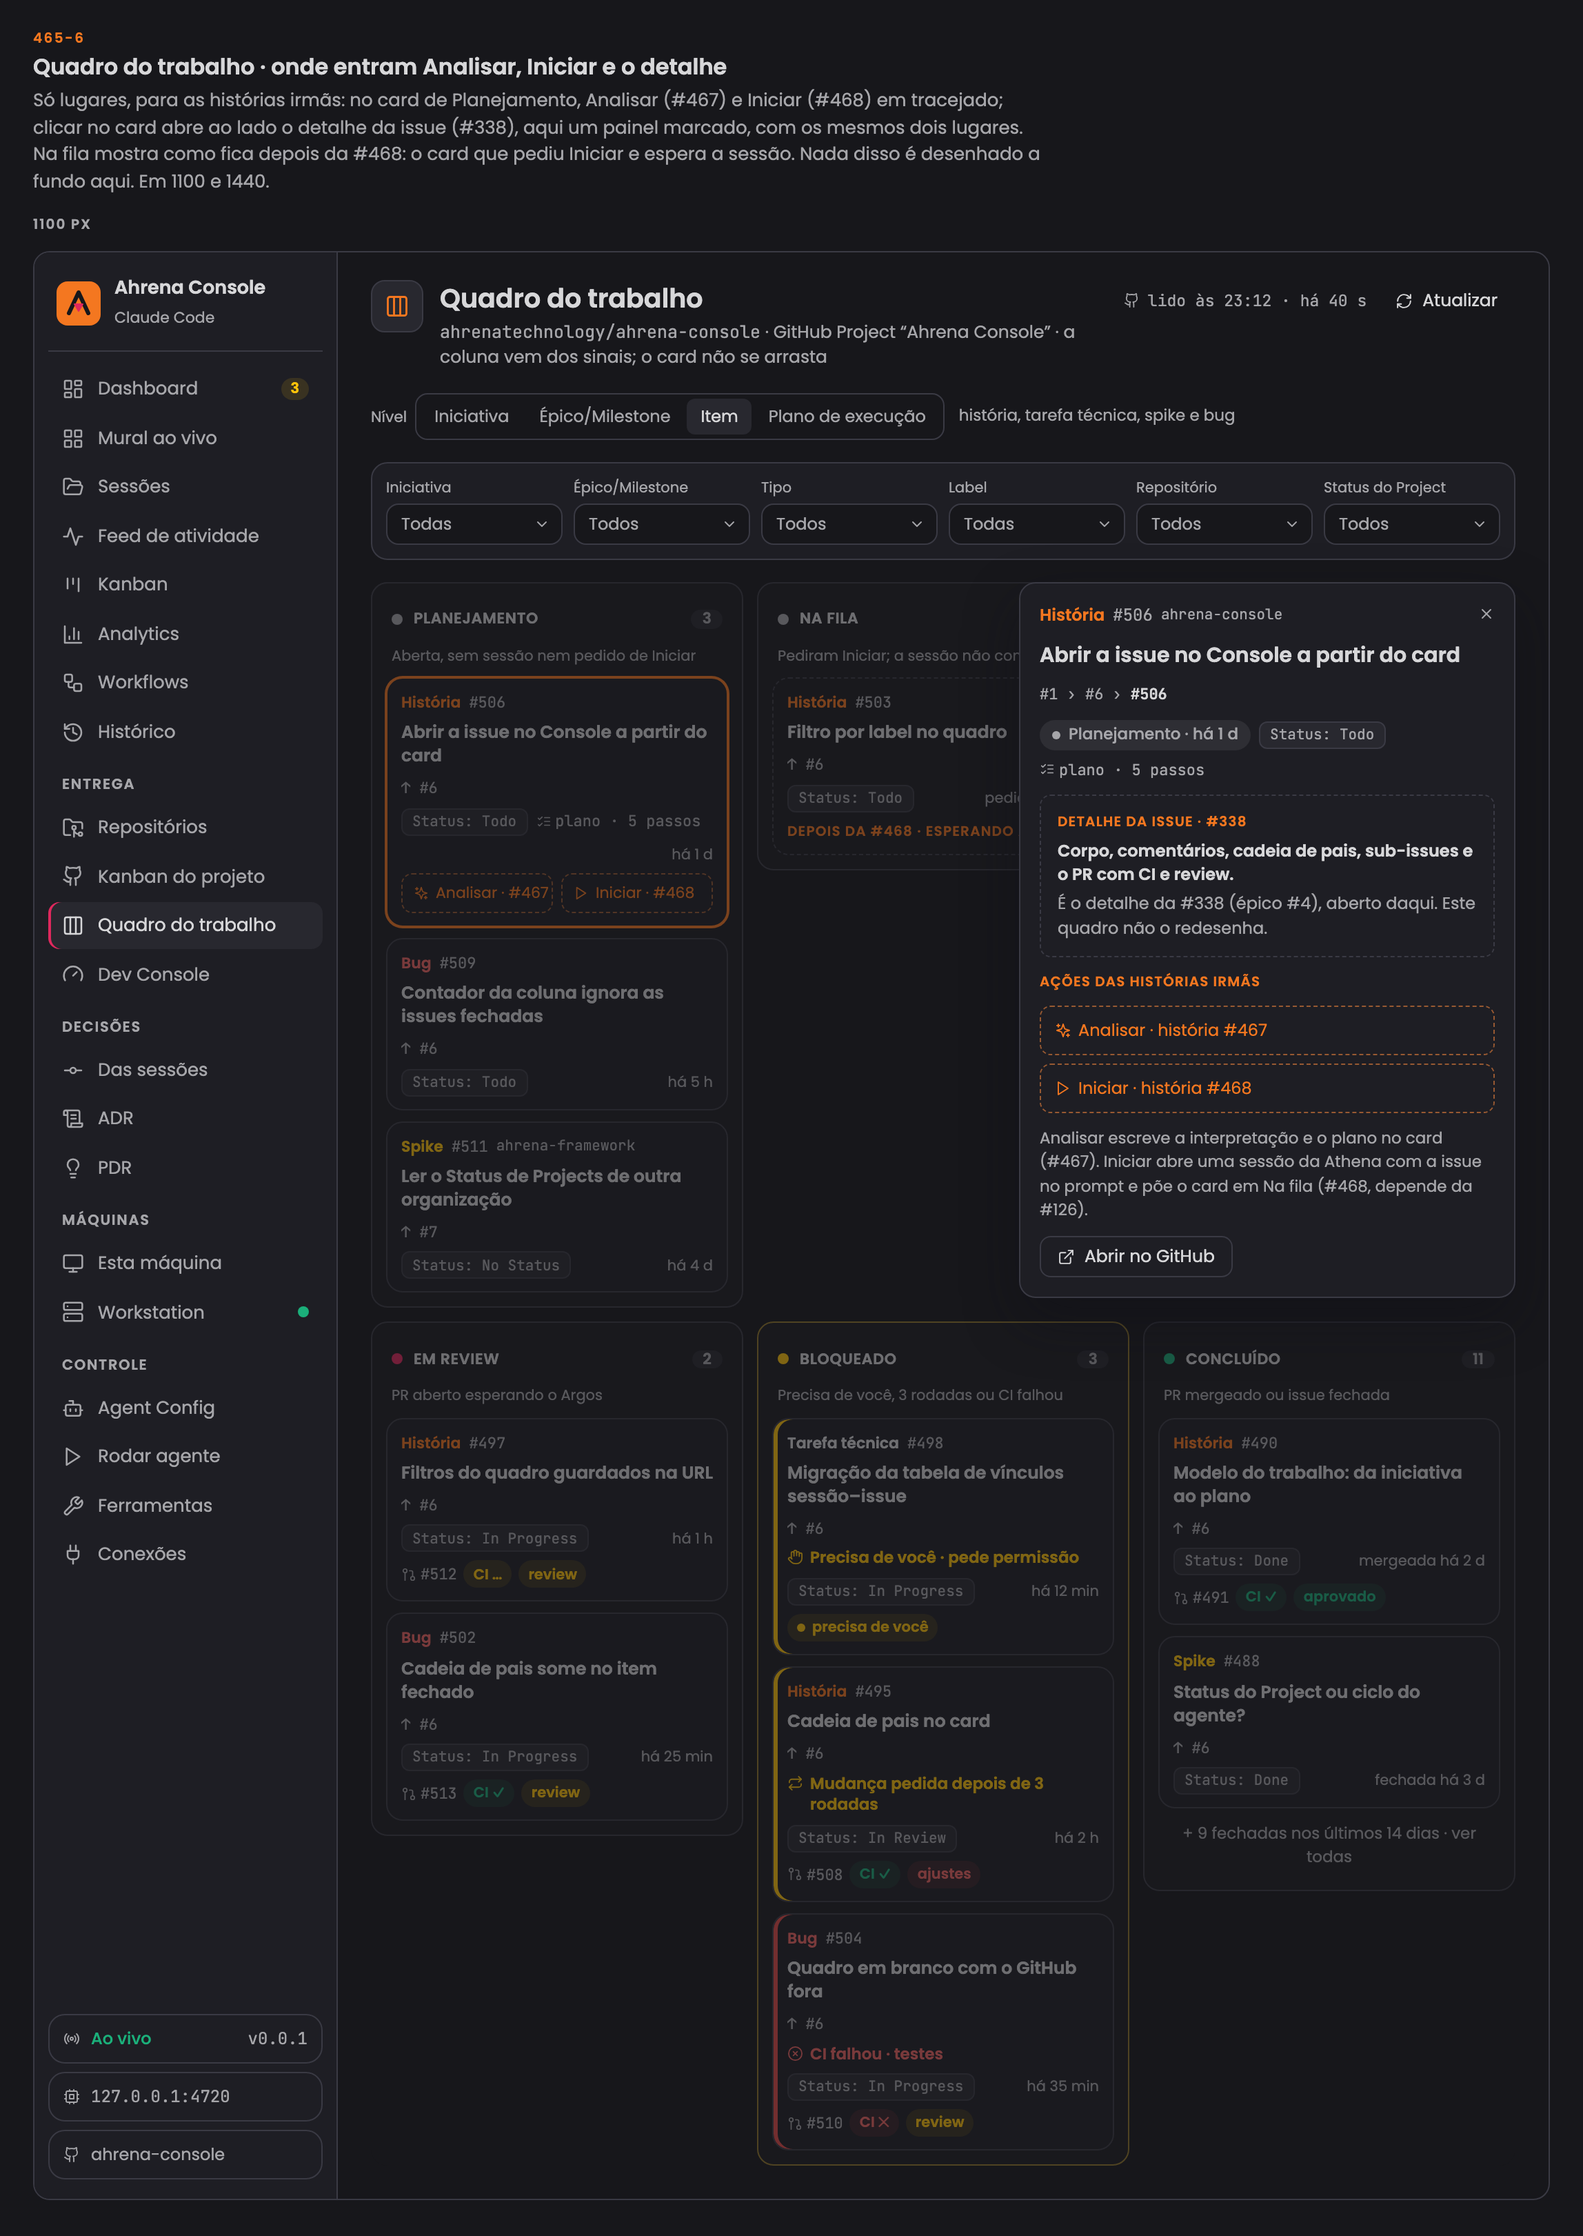
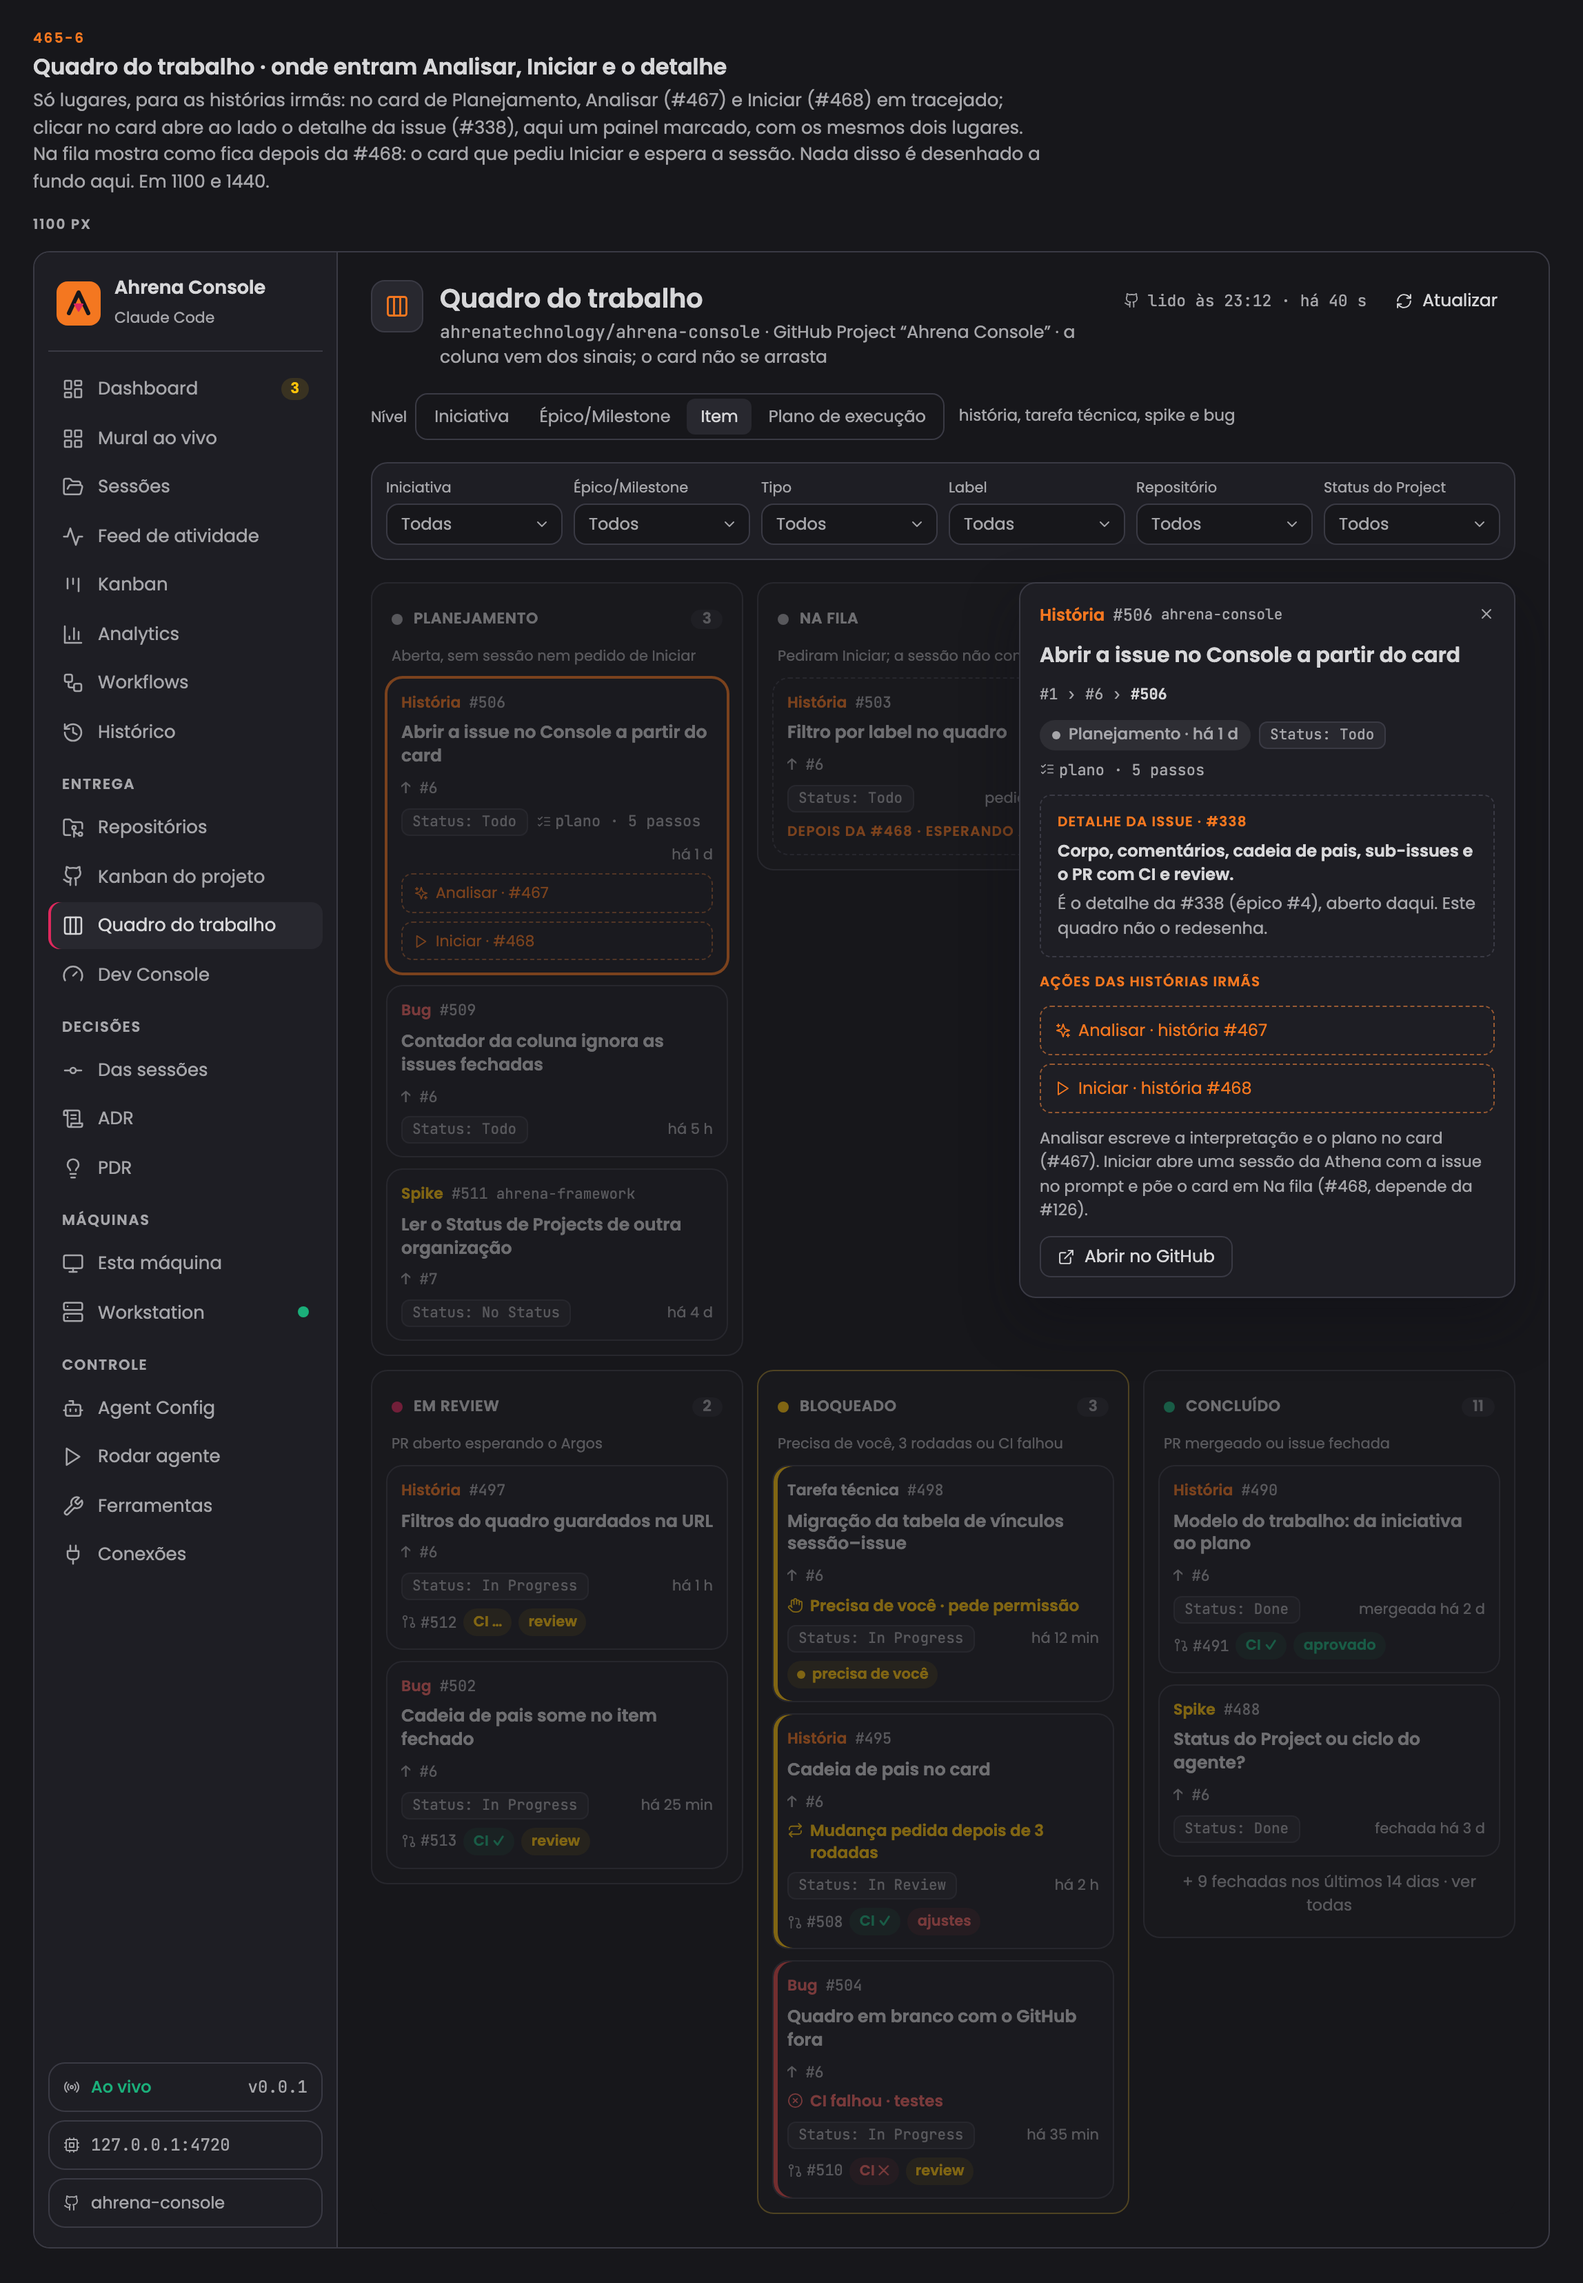
docs: round 1 review fixes on the work board wireframe (#465, #466)

diff --git a/docs/wireframes/index.html b/docs/wireframes/index.html
@@ -1178,10 +1178,11 @@ body.captura[data-width="1100"] .width-col[data-w="1440"], body.captura[data-wid
 .wb-dist { display: flex; gap: 8px; flex-wrap: wrap; font-size: 11px; color: var(--muted); font-family: var(--font-mono); }
 .wb-dist > span { display: inline-flex; align-items: center; gap: 4px; }
 .wb-drill { font-size: 12px; color: var(--accent-text); font-weight: 600; display: inline-flex; align-items: center; gap: 2px; }
-.wb-stale .wb-card .pill, .wb-stale .wb-card .wb-ref, .wb-stale .wb-card .wb-prop { opacity: .5; }
+.wb-stale .wb-card .pill, .wb-stale .wb-card .wb-ref, .wb-stale .wb-card .wb-prop, .wb-stale .wb-card .wb-reason.wb-gh { opacity: .5; }
 .wb-empty { padding: 26px 20px; }
 .wb-empty .btn + .btn { margin-left: 6px; }
 .wb-slots { display: flex; gap: 6px; }
+.wb-slots.wb-stack { flex-direction: column; }
 .wb-slot { flex: 1; min-width: 0; border: 1px dashed color-mix(in srgb, var(--accent) 50%, var(--border)); border-radius: 8px; padding: 5px 8px; font-size: 11px; color: var(--accent-text); display: flex; gap: 5px; align-items: center; white-space: nowrap; overflow: hidden; }
 .wb-slot.wb-wide { white-space: normal; align-items: flex-start; color: var(--muted); border-color: var(--border); padding: 12px; font-size: 12px; line-height: 1.45; flex-direction: column; gap: 4px; }
 .wb-slot.wb-wide b { color: var(--text); }
@@ -5261,7 +5262,7 @@ const TELAS = [
   { cap: 'work-board', titulo: 'Quadro do trabalho', desc: 'Épico #464, histórias #465 (as colunas pelo ciclo do agente) e #466 (níveis e filtros). Um quadro por projeto em que as colunas são iguais em todo projeto e vêm de sinais reais: a sessão ligada à issue, o PR que a fecha com CI e review, o estado da issue e o plano. O Status do GitHub Project vira dado e filtro. Fica ao lado do Kanban do projeto (C11), que continua. Na barra lateral, “Quadro do trabalho” entra em Entrega, só nestas telas. Em 1100 e 1440.' },
   { id: 'work-board', cod: '465-1', nome: 'Quadro do trabalho · as seis colunas', sub: 'Issue #465. Planejamento, Na fila, Em execução, Em review, Bloqueado e Concluído, nesta ordem, cada uma com o critério embaixo do nome. O card não tem alça e não se arrasta: a coluna vem dos sinais. No cabeçalho, o projeto, a hora da última leitura do GitHub e Atualizar. Na fila fica vazia, com a dica, até existir Iniciar (#468). Em 1440 as seis lado a lado; em 1100, duas linhas de três, na ordem de leitura, sem rolar na horizontal.',
     html: () => wbBoth(wbMainScreen),
-    n: N(['Nada: o CCAM não lê GitHub. O molde é o do Kanban de sessões (C9) e do Kanban do projeto (C11): colunas com ponto, título em caixa alta e contador.'], ['A coluna é calculada, não arrastada: mover o card na mão diria uma coisa que os sinais desmentem na próxima leitura. Por isso o C11 é o único quadro em que arrastar muda o GitHub.', 'O Status do Project aparece no card como dado (“Status: Todo”) e pode discordar da coluna: a #505 está “Todo” no Project e já tem duas sessões. É o motivo do épico: o Status muda de projeto para projeto e não diz em que ponto o agente está.', 'Duas sessões na mesma issue: o card fica na coluna da mais adiantada e mostra “2 sessões”.', 'Bloqueado em ordem de motivo, depois do mais antigo: precisa de você, mudança pedida depois de 3 rodadas, CI falhou. Os dois primeiros só andam com a pessoa; o CI a sessão ainda pode consertar.', 'Concluído mostra os fechados nos últimos 14 dias, os dois mais recentes à vista e “ver todas” para o resto (a aprovar).', 'Em 1100 seis colunas dariam 128 px por card; dobrar em duas linhas de três segue o Dev Console (C27), que também não rola na horizontal.']) },
+    n: N(['Nada: o CCAM não lê GitHub. O molde é o do Kanban de sessões (C9) e do Kanban do projeto (C11): colunas com ponto, título em caixa alta e contador.'], ['<b>Critério de Planejamento (a aprovar):</b> a tela diz “Aberta, sem sessão nem pedido de Iniciar”, e não “Aberta, sem plano de execução nem sessão” como a tabela do épico. A tabela não diz onde fica uma issue com plano e sem sessão; a proposta é que ela continue em Planejamento, com “plano · 5 passos” no card, até alguém pedir Iniciar (escolha 9). Aprovar isso pede atualizar a tabela do épico #464 e o critério AC-2 da #465.', 'A coluna é calculada, não arrastada: mover o card na mão diria uma coisa que os sinais desmentem na próxima leitura. Por isso o C11 é o único quadro em que arrastar muda o GitHub.', 'O Status do Project aparece no card como dado (“Status: Todo”) e pode discordar da coluna: a #505 está “Todo” no Project e já tem duas sessões. É o motivo do épico: o Status muda de projeto para projeto e não diz em que ponto o agente está.', 'Duas sessões na mesma issue: o card fica na coluna da mais adiantada e mostra “2 sessões”.', 'Bloqueado em ordem de motivo, depois do mais antigo: precisa de você, mudança pedida depois de 3 rodadas, CI falhou. Os dois primeiros só andam com a pessoa; o CI a sessão ainda pode consertar.', 'Concluído mostra os fechados nos últimos 14 dias, os dois mais recentes à vista e “ver todas” para o resto (a aprovar).', 'Em 1100 seis colunas dariam 128 px por card; dobrar em duas linhas de três segue o Dev Console (C27), que também não rola na horizontal.']) },
   { id: 'work-board-card', cod: '465-2', nome: 'Quadro do trabalho · anatomia do card', sub: 'Issue #465. O card ampliado com cada parte numerada: tipo, número, tempo na coluna, título, pai, Status do Project, sessão, PR, CI, review, motivo do bloqueio e repositório. Ao lado, os três motivos de Bloqueado, Concluído (“mergeada há 2 d”, “fechada há 3 d”) e o pai compacto e com filtro. Sem largura própria.',
     html: () => wbAnatomy(),
     n: N(['Nada. As pílulas de CI e review são as do C11 e do Dev Console (C27); as de sessão, as do Kanban de sessões (#245).'], ['Pai compacto (<span class="mono">↑ #6</span>) por padrão, para o card caber em 185 px; com qualquer filtro ativo, a cadeia inteira (<span class="mono">#1 › #6 › #500</span>), que é quando a pessoa está olhando um recorte e precisa saber de onde cada item vem (#466, critério 4). A regra é pelo filtro, não pela largura: a mesma tela não muda de cadeia ao redimensionar.', 'Tempo na coluna é desde a entrada na coluna atual; em Concluído, desde o merge do PR ou o fechamento da issue.', 'Sessão em amarelo só quando precisa de você, como no resto do Console (#245); o motivo de Bloqueado vem em amarelo quando depende da pessoa e em vermelho quando é o CI.', 'Repositório só no card de outro repositório: o Project junta mais de um, mas repetir o nome do principal em todo card só ocupa linha.']) },
@@ -5270,7 +5271,7 @@ const TELAS = [
     n: N(['O EmptyState do C19: ícone, frase, o que fazer.'], ['Sem conexão com o GitHub, a tela é o “Conectar ao GitHub” do C42, não este vazio.', 'As colunas vazias ficam sem “Nenhuma” por coluna: o vazio de cima já explica, e seis avisos iguais seriam ruído.']) },
   { id: 'work-board-stale', cod: '465-4', nome: 'Quadro do trabalho · GitHub fora', sub: 'Issue #465, critério 4, decisão 0001. Em cima, o quadro já foi lido: fica o último dado, a faixa vermelha diz o motivo, de quando é o quadro e quando tentamos de novo, com Tentar agora; o que vem do GitHub (Status, PR, CI, review) fica desbotado e a sessão, que é do núcleo, segue viva. Embaixo, a primeira leitura falhou e não há nada guardado. Em 1100 e 1440.',
     html: () => wbStaleHtml(),
-    n: N(['Nada.'], ['Decisão 0001: o quadro guarda a última leitura boa e diz por quê; nunca esvazia porque o GitHub caiu. O texto é o mesmo do C19 (“GitHub indisponível. Mostrando … de 22:41. Tentamos de novo em 2 min.”).', 'As sessões vêm do núcleo deste Mac e continuam ao vivo: um card ainda pode passar de Em execução para Bloqueado (precisa de você) com o GitHub fora. O que não muda é o que depende do GitHub, e por isso só essa parte desbota.', 'A hora do cabeçalho fica amarela enquanto o dado é velho, para quem não leu a faixa.']) },
+    n: N(['Nada.'], ['Decisão 0001: o quadro guarda a última leitura boa e diz por quê; nunca esvazia porque o GitHub caiu. O texto é o mesmo do C19 (“GitHub indisponível. Mostrando … de 22:41. Tentamos de novo em 2 min.”).', 'No motivo de Bloqueado vale o mesmo: “CI falhou” e “Mudança pedida depois de 3 rodadas” vêm do GitHub e desbotam; “Precisa de você” vem do núcleo e fica forte.', 'As sessões vêm do núcleo deste Mac e continuam ao vivo: um card ainda pode passar de Em execução para Bloqueado (precisa de você) com o GitHub fora. O que não muda é o que depende do GitHub, e por isso só essa parte desbota.', 'A hora do cabeçalho fica amarela enquanto o dado é velho, para quem não leu a faixa.']) },
   { id: 'work-board-loading', cod: '465-5', nome: 'Quadro do trabalho · carregando', sub: 'Issue #465. Na primeira abertura, enquanto o GitHub é lido: as seis colunas com cards de esqueleto, os contadores em “…”, filtros desligados e Atualizar ocupado. Nas leituras seguintes o quadro fica e só o Atualizar gira. Em 1100 e 1440.',
     html: () => wbBoth(wbLoadingScreen),
     n: N(['O esqueleto do C19.'], ['O esqueleto tem a altura de um card curto, para o quadro não pular quando os dados chegam.']) },
@@ -5908,7 +5909,8 @@ const WB_TYPES = {
   story: ['História', 'var(--accent-text)'], task: ['Tarefa técnica', 'var(--text)'], spike: ['Spike', 'var(--status-waiting-text)'], bug: ['Bug', 'var(--status-error-text)'],
   epic: ['Épico', 'var(--rose)'], initiative: ['Iniciativa', 'var(--text)'], plan: ['Plano', 'var(--muted)'],
 }
-// [key, label, dot, criterion]: the epic's table, in this order.
+// [key, label, dot, criterion]: the epic's table, in this order, except the Planejamento criterion, which is
+// choice 9 of the closing list (an issue with a plan and no session stays here) and still needs approval.
 const WB_COLUMNS = [
   ['planning', 'Planejamento', 'var(--muted)', 'Aberta, sem sessão nem pedido de Iniciar'],
   ['queued', 'Na fila', 'var(--muted)', 'Pediram Iniciar; a sessão não começou'],
@@ -5945,7 +5947,7 @@ const wbItem = n => WB_ITEMS.find(c => c.n === n)
 const wbChain = (c, full) => full
   ? `<div class="wb-chain" title="Cadeia de pais">${c.p.map(n => `#${n}`).join(' › ')} › <b>#${c.n}</b></div>`
   : `<div class="wb-chain" title="Pai">↑ #${c.p[c.p.length - 1]}</div>`
-const wbSlots = (long = false) => `<div class="wb-slots"><span class="wb-slot">${ic('sparkles')}Analisar · ${long ? 'história ' : ''}#467</span><span class="wb-slot">${ic('play')}Iniciar · ${long ? 'história ' : ''}#468</span></div>`
+const wbSlots = (long = false) => `<div class="wb-slots${long ? '' : ' wb-stack'}"><span class="wb-slot">${ic('sparkles')}Analisar · ${long ? 'história ' : ''}#467</span><span class="wb-slot">${ic('play')}Iniciar · ${long ? 'história ' : ''}#468</span></div>`
 // o.chain: the whole chain (any filter on); o.marks: the numbered callouts of the anatomy (465-2).
 function wbCard(c, o = {}) {
   const m = k => o.marks?.includes(k) ? `<span class="wb-mark">${k}</span>` : ''
@@ -5962,7 +5964,7 @@ function wbCard(c, o = {}) {
     <div class="wb-top">${m(1)}<b style="color:${tc}">${tl}</b>${m(2)}<span class="c-muted mono">#${c.n}</span>${c.repo ? `${m(12)}<span class="wb-repo trunc">${c.repo}</span>` : ''}</div>
     <div class="wb-title">${m(4)}${c.title}</div>
     ${c.p ? m(5) ? `<div style="display:flex;align-items:center;gap:2px">${m(5)}${wbChain(c, o.chain)}</div>` : wbChain(c, o.chain) : ''}
-    ${why ? `<div class="wb-reason${why[1]}">${m(11)}${ic(why[0])}<span>${c.reason[1]}</span></div>` : ''}
+    ${why ? `<div class="wb-reason${why[1]}${c.reason[0] === 'needs' ? '' : ' wb-gh'}">${m(11)}${ic(why[0])}<span>${c.reason[1]}</span></div>` : ''}
     <div class="wb-data">${m(6)}<span class="wb-prop">Status: ${c.prop}</span>${c.plan ? `<span class="wb-ref">${ic('list-checks')}${c.plan}</span>` : ''}<span class="wb-age">${m(3)}${o.age ?? c.done ?? c.age}</span></div>
     ${badges ? `<div class="wb-badges">${badges}</div>` : ''}${o.extra ?? ''}</div>`
 }
